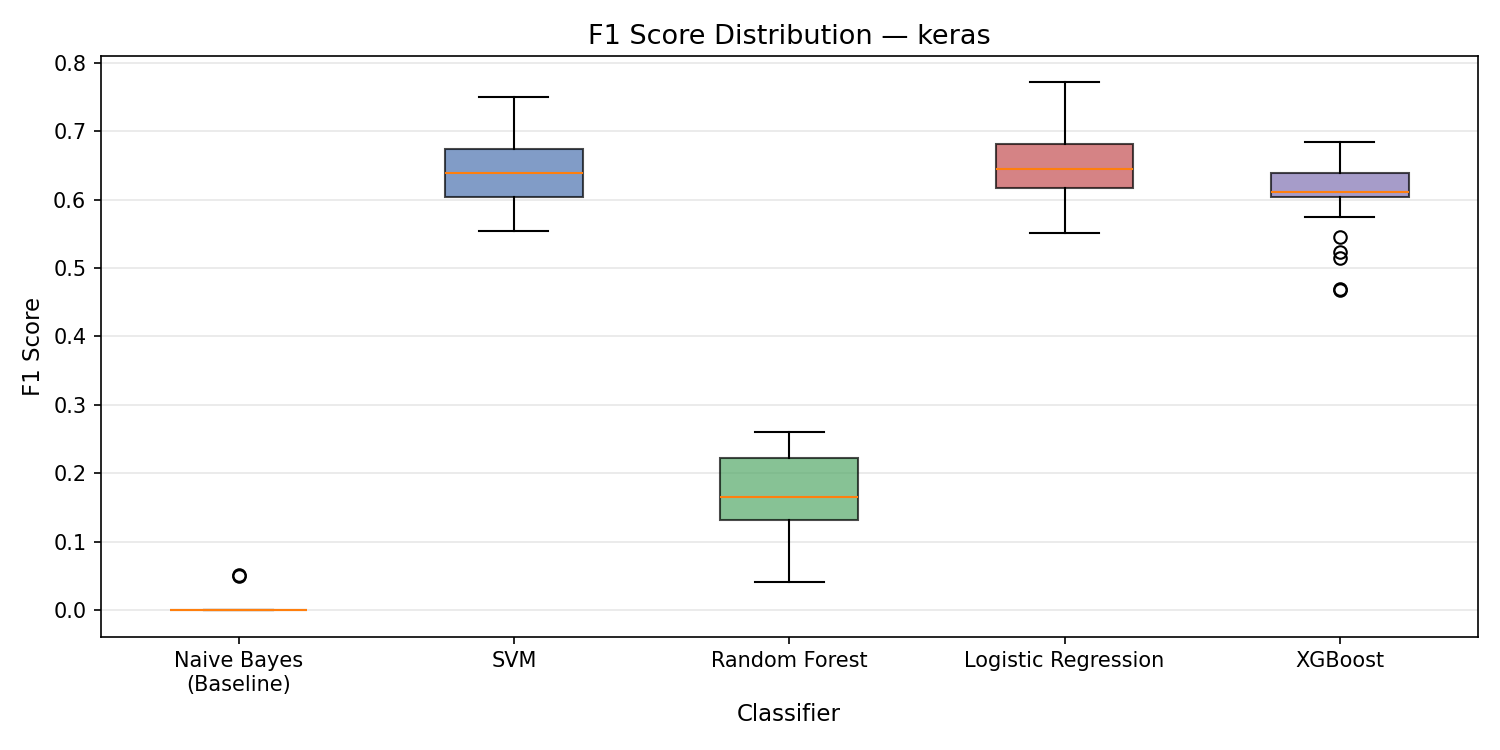
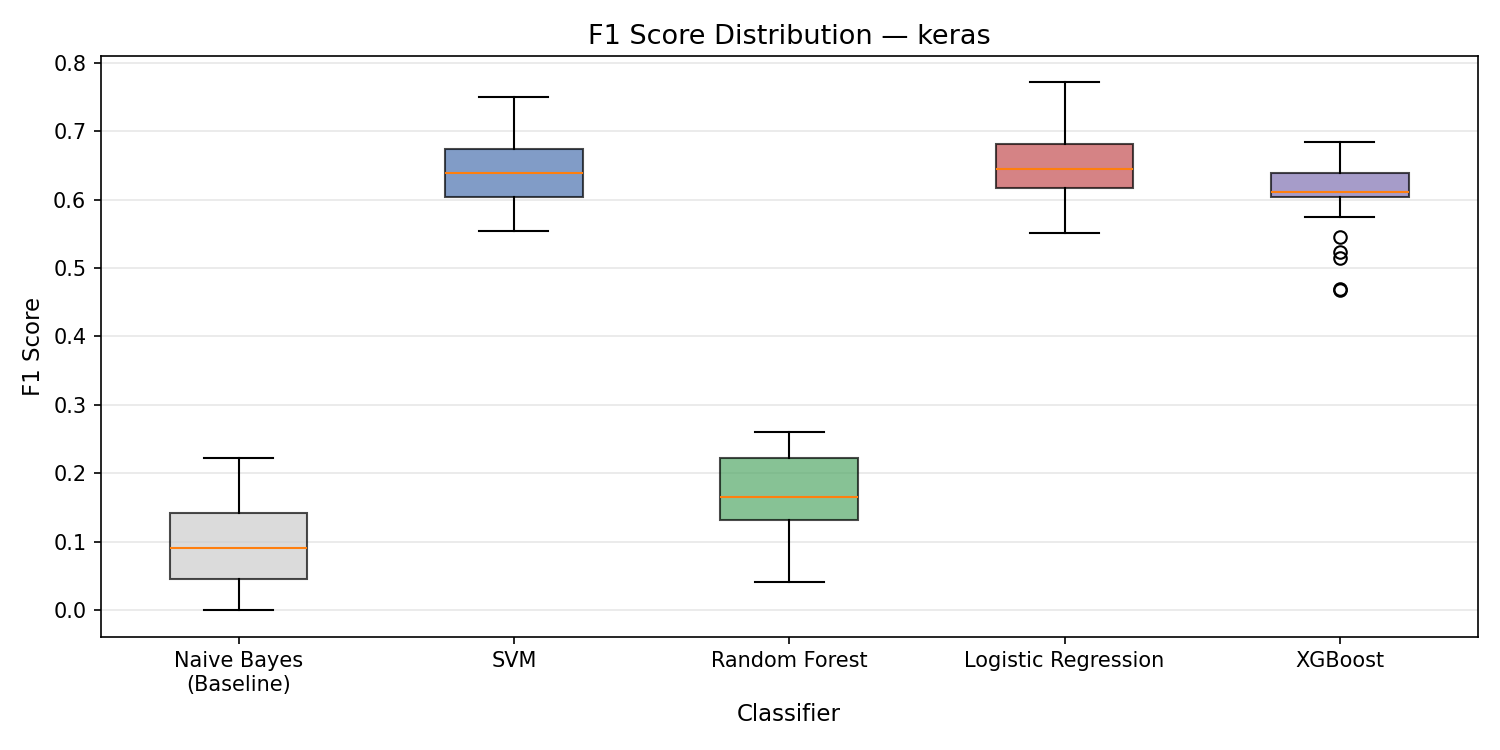
Updated results with NB baseline non trivial

Changed region(s): [[0.092, 0.6747, 0.2147, 0.828]]

diff --git a/lab1/main.py b/lab1/main.py
@@ -170,7 +170,7 @@ PROJECTS = ['tensorflow', 'pytorch', 'keras', 'incubator-mxnet', 'caffe']
 #   in the minority class.
 #
 CLASSIFIERS = {
-    'Naive Bayes (Baseline)': MultinomialNB(),
+    'Naive Bayes (Baseline)': MultinomialNB(class_prior=[0.5, 0.5]),  # balanced weights not supported, so we set priors to 0.5 each (not reflecting true imbalance)
     'SVM':                    LinearSVC(max_iter=10000, dual='auto',
                                         class_weight='balanced'),
     'Random Forest':          RandomForestClassifier(n_estimators=100, random_state=42,
